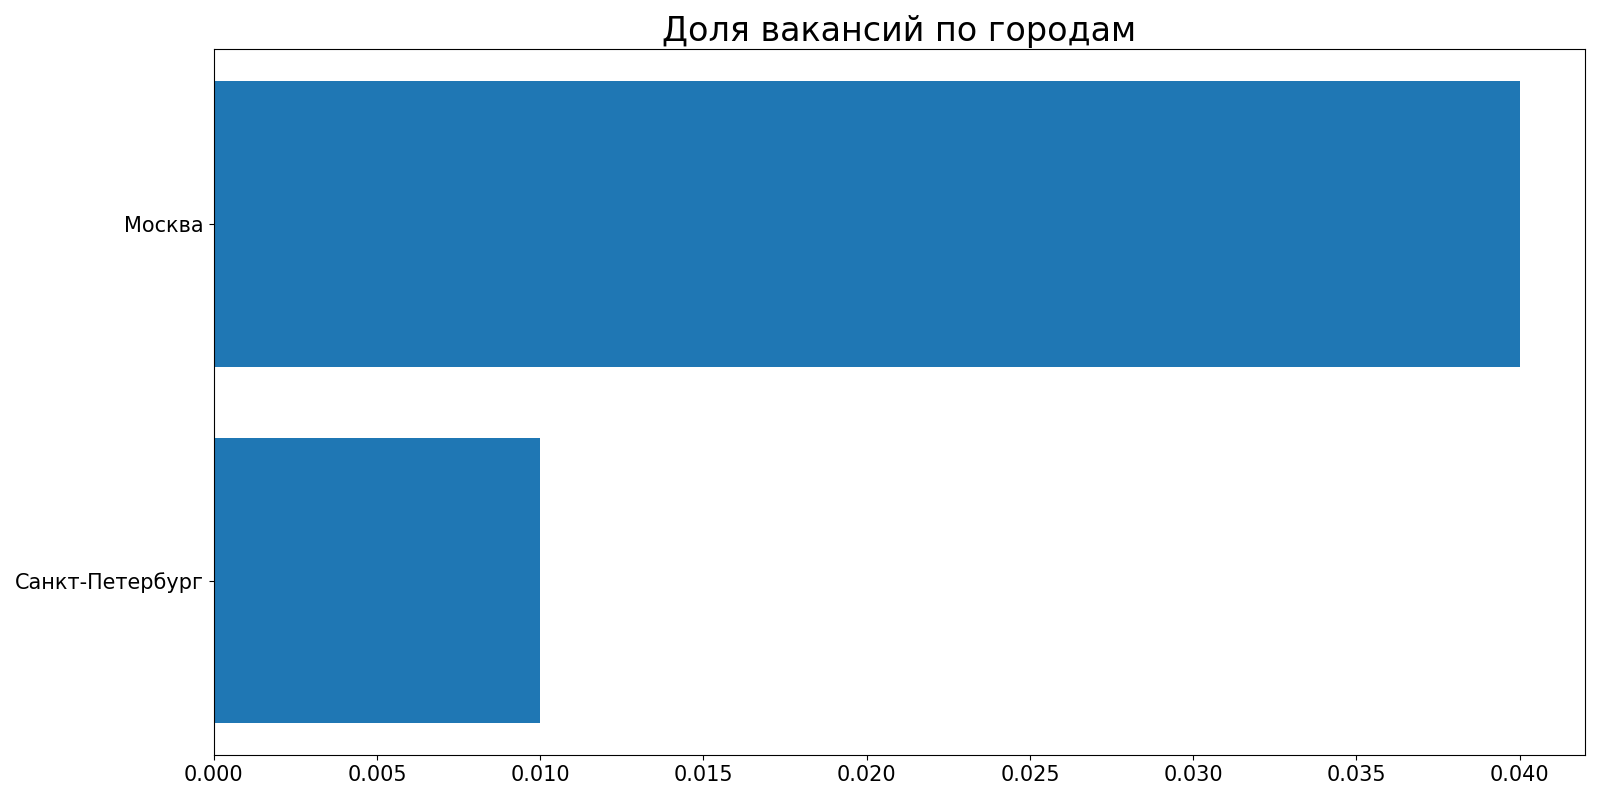
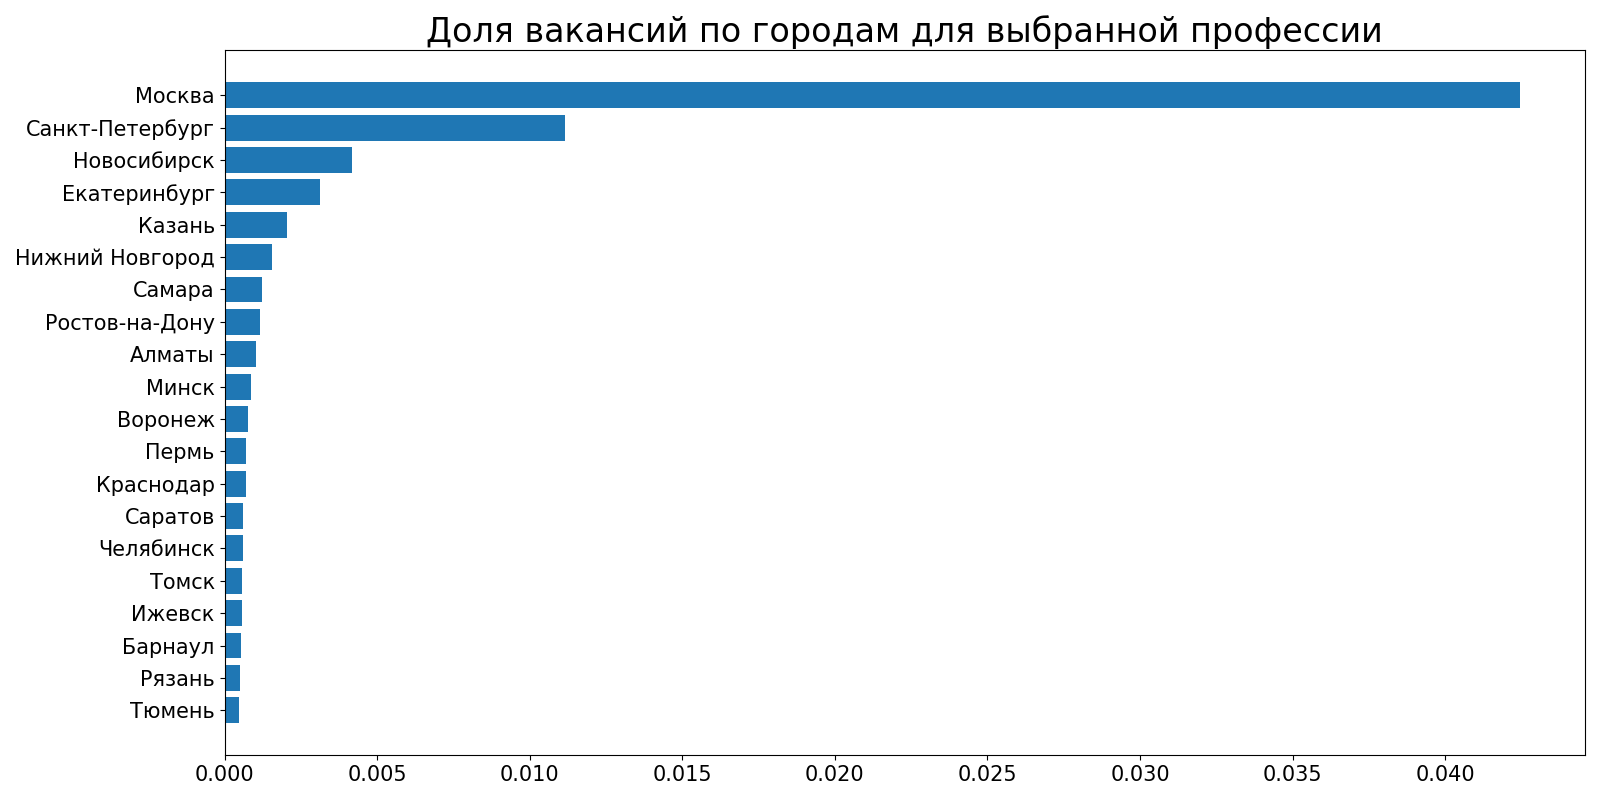
Добавлена кнопка для перехода в админку для пользователей с правами, исправлены данные для графиков в географии

diff --git a/staticfiles/geography/tables/prof_top_20_cities_by_rate.html b/staticfiles/geography/tables/prof_top_20_cities_by_rate.html
@@ -8,11 +8,83 @@
   <tbody>
     <tr>
       <td>Москва</td>
-      <td>0.04</td>
+      <td>0.042462</td>
     </tr>
     <tr>
       <td>Санкт-Петербург</td>
-      <td>0.01</td>
+      <td>0.011164</td>
+    </tr>
+    <tr>
+      <td>Новосибирск</td>
+      <td>0.004185</td>
+    </tr>
+    <tr>
+      <td>Екатеринбург</td>
+      <td>0.003142</td>
+    </tr>
+    <tr>
+      <td>Казань</td>
+      <td>0.002037</td>
+    </tr>
+    <tr>
+      <td>Нижний Новгород</td>
+      <td>0.001563</td>
+    </tr>
+    <tr>
+      <td>Самара</td>
+      <td>0.001232</td>
+    </tr>
+    <tr>
+      <td>Ростов-на-Дону</td>
+      <td>0.001153</td>
+    </tr>
+    <tr>
+      <td>Алматы</td>
+      <td>0.001042</td>
+    </tr>
+    <tr>
+      <td>Минск</td>
+      <td>0.000853</td>
+    </tr>
+    <tr>
+      <td>Воронеж</td>
+      <td>0.000758</td>
+    </tr>
+    <tr>
+      <td>Пермь</td>
+      <td>0.000711</td>
+    </tr>
+    <tr>
+      <td>Краснодар</td>
+      <td>0.000695</td>
+    </tr>
+    <tr>
+      <td>Саратов</td>
+      <td>0.000600</td>
+    </tr>
+    <tr>
+      <td>Челябинск</td>
+      <td>0.000600</td>
+    </tr>
+    <tr>
+      <td>Томск</td>
+      <td>0.000584</td>
+    </tr>
+    <tr>
+      <td>Ижевск</td>
+      <td>0.000568</td>
+    </tr>
+    <tr>
+      <td>Барнаул</td>
+      <td>0.000553</td>
+    </tr>
+    <tr>
+      <td>Рязань</td>
+      <td>0.000490</td>
+    </tr>
+    <tr>
+      <td>Тюмень</td>
+      <td>0.000458</td>
     </tr>
   </tbody>
 </table>

diff --git a/templates/menu.html b/templates/menu.html
@@ -9,6 +9,11 @@
             <img src="{% static 'img/user.svg' %}" width="16" height="18" alt="Кабинет пользователя">
         </a>
         <ul class="site-navigation">
+            {% if user.is_staff or user.is_superuser %}
+                <li class="site-navigation-item">
+                    <a href="{% url 'admin' %}">Админка</a>
+                </li>
+            {% endif %}
           <li class="site-navigation-item">
             <a href="{% url 'home' %}">Главная</a>
           </li>

diff --git a/templates/geography-rate-prof.py b/templates/geography-rate-prof.py
@@ -17,7 +17,7 @@ def creating_plot(df):
     plt.tick_params(axis='y', labelrotation=0, labelsize=15)  # Настройка меток по оси Y
     plt.tick_params(axis='y', labelright=False, labelleft=True)
     plt.tick_params(axis='x', labelrotation=0, labelsize=15)  # Настройка меток по оси X
-    plt.title('Доля вакансий по городам', fontdict={'fontsize': 24})  # Заголовок графика
+    plt.title('Доля вакансий по городам для выбранной профессии', fontdict={'fontsize': 24})  # Заголовок графика
     plt.tight_layout()  # Улучшение отображения
     plt.savefig(f"geography/graphs/prof_graph_top_20_cities_by_rate.png", dpi=100)  # Сохранение графика в файл
     return
@@ -33,7 +33,7 @@ def main():
     df2 = df2.drop('name', axis=1)
 
     # Расчет доли вакансий по городам
-    df2['rate'] = df2.groupby('area_name')['area_name'].transform(lambda x: x.count() / count * 100).round(2).astype(float)
+    df2['rate'] = df2.groupby('area_name')['area_name'].transform(lambda x: x.count() / count * 100)
     df_by_city_rate = df2.groupby('area_name').agg({
         'rate': 'first'
     }).reset_index()

diff --git a/djangoProject/urls.py b/djangoProject/urls.py
@@ -15,7 +15,7 @@ urlpatterns = [
     path('geography/', views.geography, name='География'),
     path('skills/', views.skills, name='Навыки'),
     path('lastvacancies/', views.last_vacancies, name='Последние вакансии'),
-    path('admin/', admin.site.urls),
+    path('admin/', admin.site.urls, name='admin'),
 ]
 
 # Добавление URL-шаблонов для обслуживания медиа-файлов в режиме отладки
